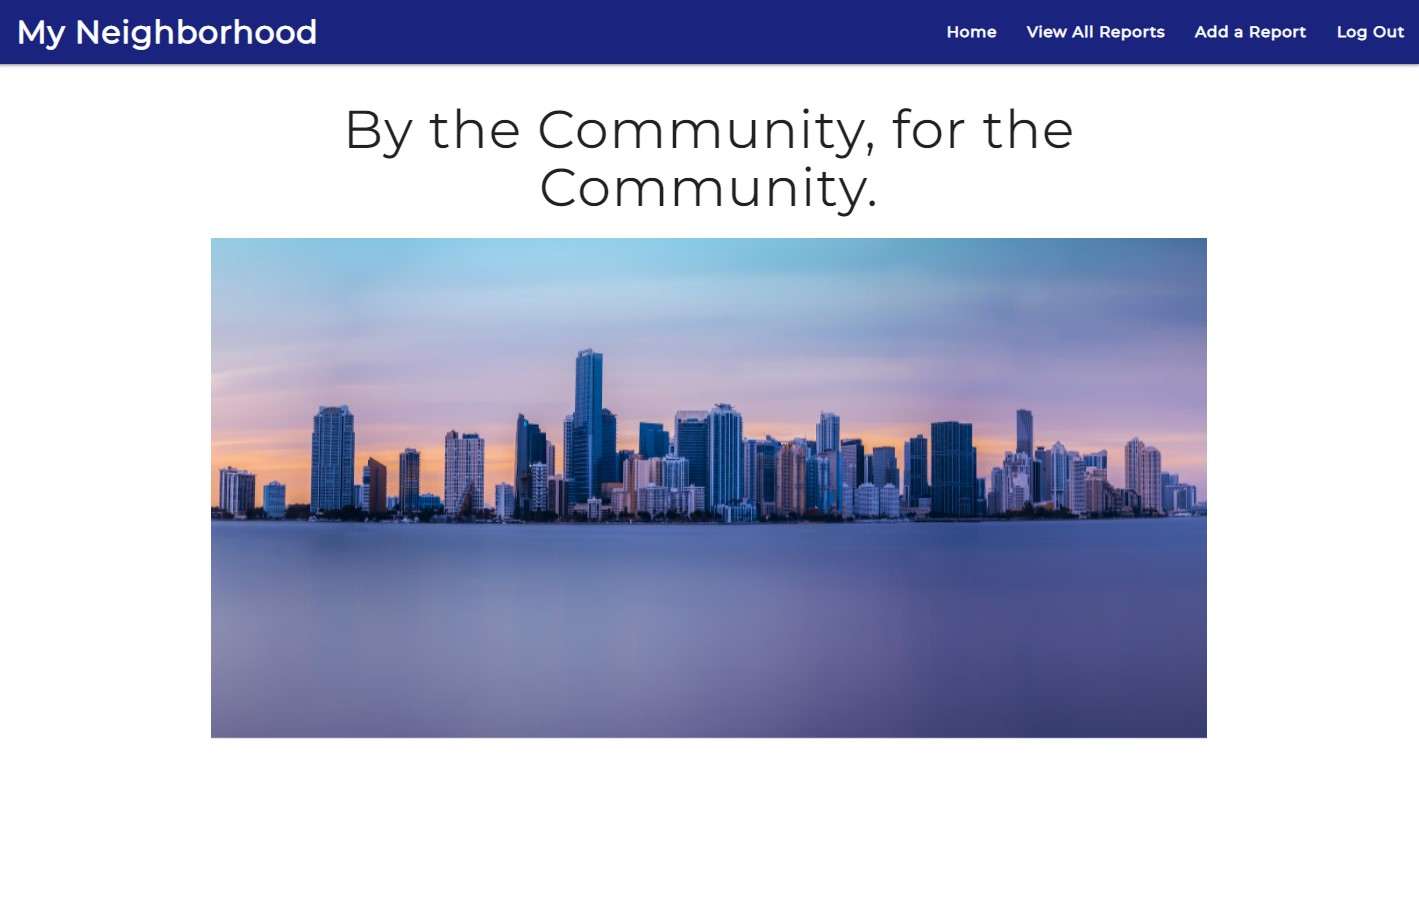
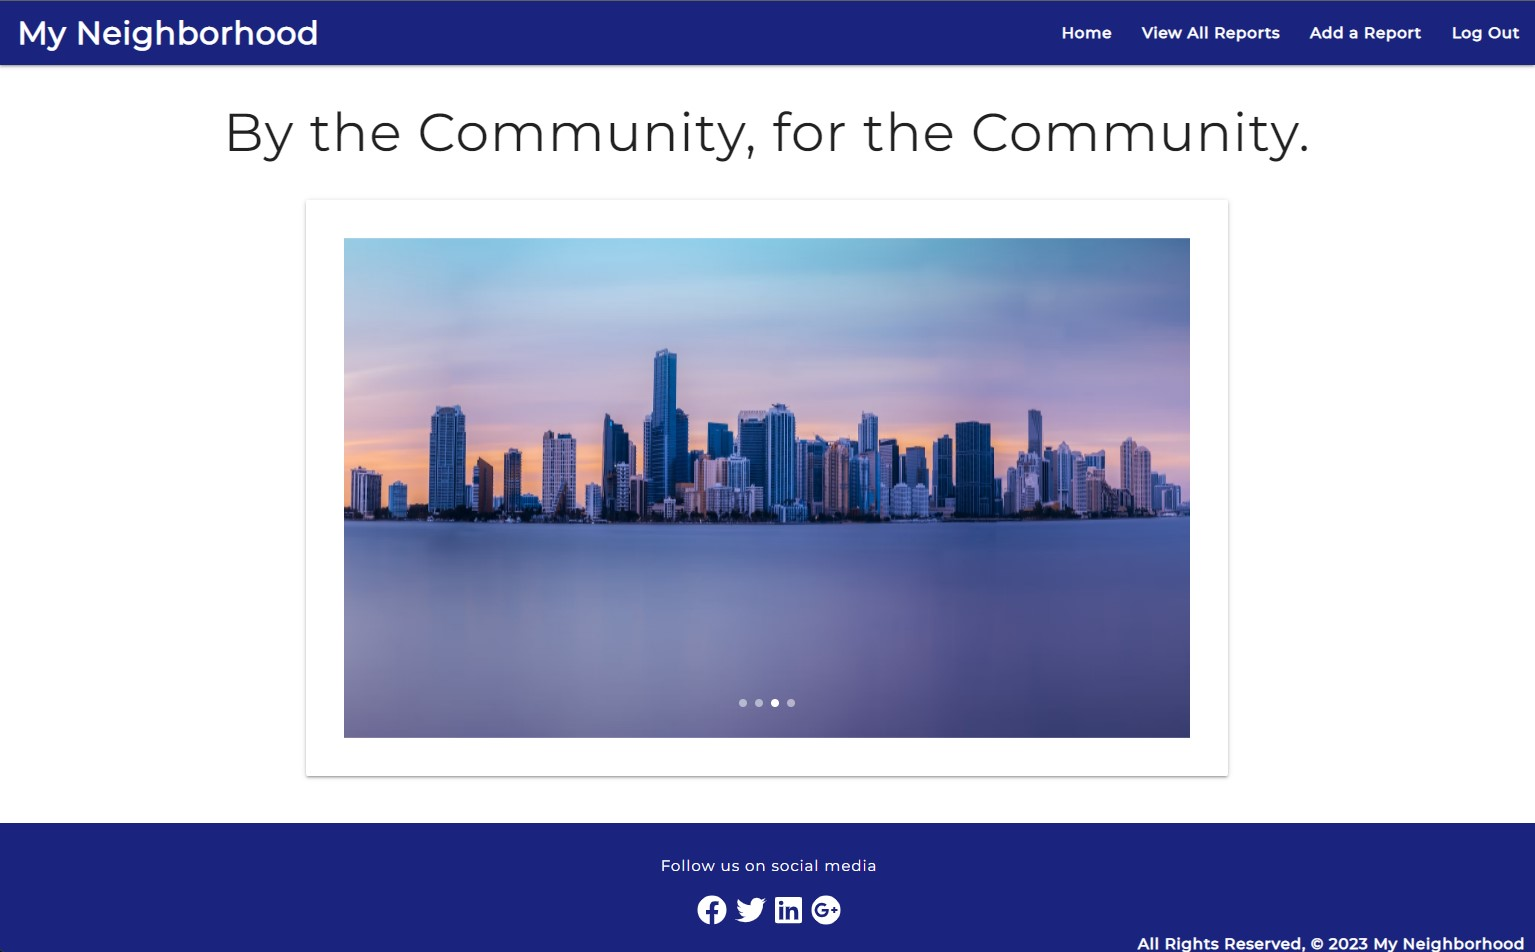
minor homepage and readme updates

diff --git a/main_app/templates/home.html b/main_app/templates/home.html
@@ -3,12 +3,14 @@
 
 <section class="home-container">
     <h2>By the Community, for the Community.</h2>
+    <div class="card" id="carousel-div">
         <div class="carousel carousel-slider" data-indicators ="true">
             <a class="carousel-item" href="#one!"><img src="https://images.unsplash.com/photo-1585130401366-fe05a8d813c4?ixlib=rb-4.0.3&ixid=MnwxMjA3fDB8MHxwaG90by1wYWdlfHx8fGVufDB8fHx8&auto=format&fit=crop&w=2156&q=80" style="height: 500px;"></a>
             <a class="carousel-item" href="#two!"><img src="https://images.unsplash.com/photo-1533106497176-45ae19e68ba2?ixlib=rb-4.0.3&ixid=MnwxMjA3fDB8MHxwaG90by1wYWdlfHx8fGVufDB8fHx8&auto=format&fit=crop&w=2340&q=80" style="height: 500px;"></a>
             <a class="carousel-item" href="#three!"><img src="https://images.unsplash.com/photo-1513735539099-cf6e5d559d82?ixlib=rb-4.0.3&ixid=MnwxMjA3fDB8MHxwaG90by1wYWdlfHx8fGVufDB8fHx8&auto=format&fit=crop&w=2272&q=80" style="height: 500px;"></a>
             <a class="carousel-item" href="#four!"><img src="https://images.unsplash.com/photo-1543968332-f99478b1ebdc?ixlib=rb-4.0.3&ixid=MnwxMjA3fDB8MHxwaG90by1wYWdlfHx8fGVufDB8fHx8&auto=format&fit=crop&w=2340&q=80" style="height: 500px;"></a>
         </div>
+    </div>
 </section>
     
 <!-- <section class="home-page-img"> -->

diff --git a/main_app/static/css/style.css b/main_app/static/css/style.css
@@ -20,7 +20,8 @@ h2 {
     justify-content: center;
     align-items: center;
     text-align: center;
-    /* font-family: 'Style Script', cursive; */
+    margin-top: 4vmin;
+    margin-bottom: 4vmin;
 
 }
 
@@ -98,7 +99,6 @@ span {
 }
 
 .home-container {
-    margin-top: 80px;
     justify-content: center;
     align-items: center;
     align-content: center;
@@ -152,8 +152,8 @@ footer {
 }
 
 .carousel {
-    height: 700px !important;
-    min-height: 600px;
+    height: 500px !important;
+    min-height: 500px;
 }
 
 #signup-form {
@@ -164,6 +164,7 @@ footer {
 #login-form {
     display: flex;
     margin: 10px;
+    margin-bottom: 30%;
     justify-content: center;
     align-items: center;
     align-content: center;
@@ -186,4 +187,11 @@ footer {
 
 #delete-form {
     margin-bottom: 40%;
+}
+
+#carousel-div {
+    margin: 0 auto;
+    margin-bottom: 5vmin;
+    width: 75%;
+    padding: 4vmin;
 }
